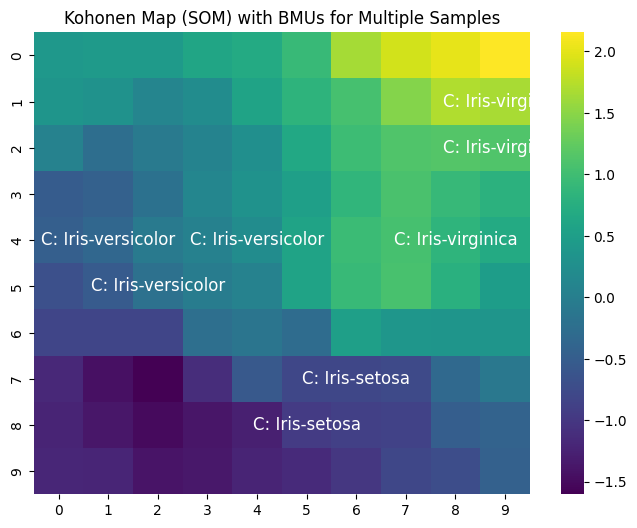
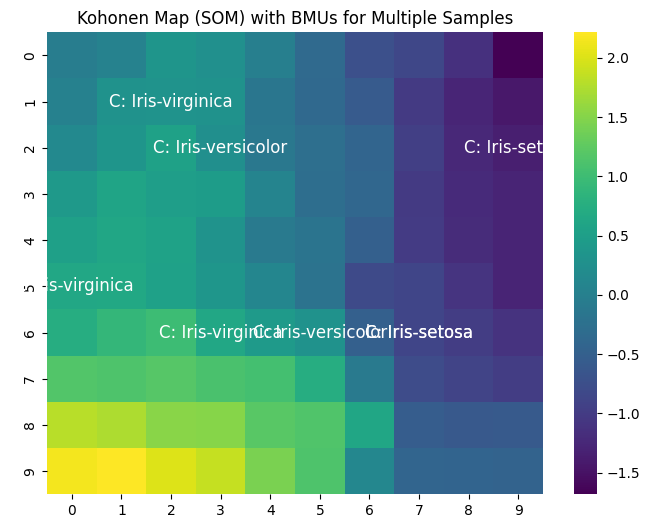
Atualização em experimentos

diff --git a/README.md b/README.md
@@ -7,11 +7,11 @@ Experimentos de afinação de parâmetros com o modelo de Kohonen (Mapas Auto-Or
 | #2 (Mapa Menor)                 | 5x5   | 0.4                 | 20.000    | 2,5             | N/ln(2,5)          | 87,50%   |
 | #3 (Mapa Maior)                 | 15x15 | 0.4                 | 20.000    | 7,5             | N/ln(7,5)          | 66,66%   |
 | #4 (Aprendizagem Baixa)         | 10x10 | 0.1                 | 20.000    | 5               | N/ln(5)            | 83,33%   |
-| #5 (Aprendizagem Alta)          | 10x10 | 0.7                 | 20.000    | 5               | N/ln(5)            | 100%     |
+| #5 (Aprendizagem Alta)          | 10x10 | 0.7                 | 20.000    | 5               | N/ln(5)            | 87,50%   |
 | #6 (Poucas Iterações)           | 10x10 | 0.4                 | 5.000     | 5               | N/ln(5)            | 75,00%   |
 | #7 (Muitas Iterações)           | 10x10 | 0.4                 | 50.000    | 5               | N/ln(5)            | 75,00%   |
 | #8 (Raio Menor)                 | 10x10 | 0.4                 | 20.000    | 3               | N/ln(3)            | 83,33%   |
 | #9 (Raio Maior)                 | 10x10 | 0.4                 | 20.000    | 7               | N/ln(7)            | 87,50%   |
 | #10 (Decaimento Mais Rápido)    | 10x10 | 0.4                 | 20.000    | 5               | 0,5tref            | 85,71%   |
-| #11 (Decaimento Intermediário)  | 10x10 | 0.4                 | 20.000    | 5               | 1,5tref            | 100%     |
-| #12 (Decaimento Mais Lento)     | 10x10 | 0.4                 | 20.000    | 5               | 2tref              | 100%     |
+| #11 (Decaimento Intermediário)  | 10x10 | 0.4                 | 20.000    | 5               | 1,5tref            | 85,71%   |
+| #12 (Decaimento Mais Lento)     | 10x10 | 0.4                 | 20.000    | 5               | 2tref              | 87,50%   |
